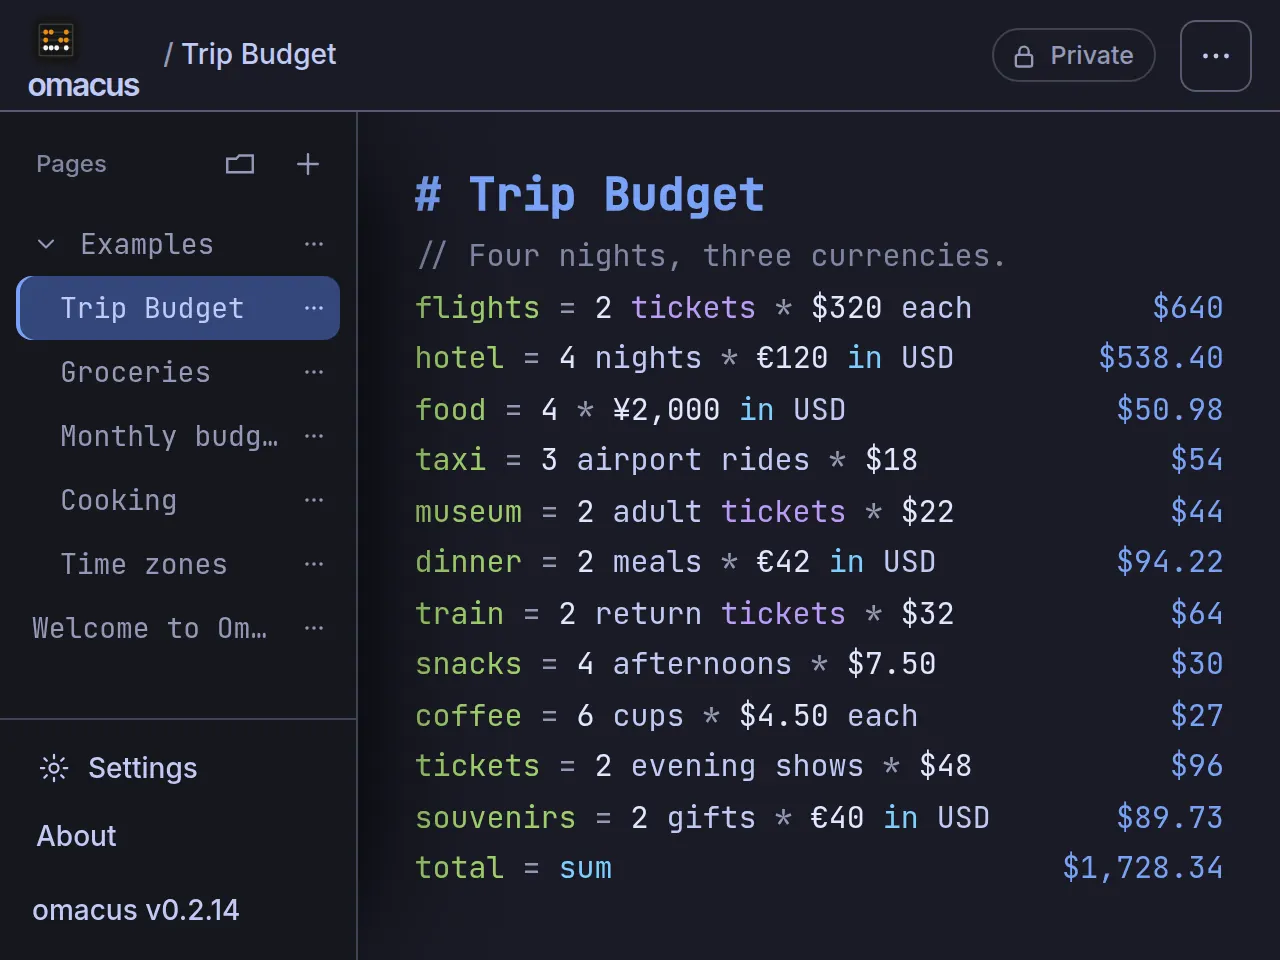
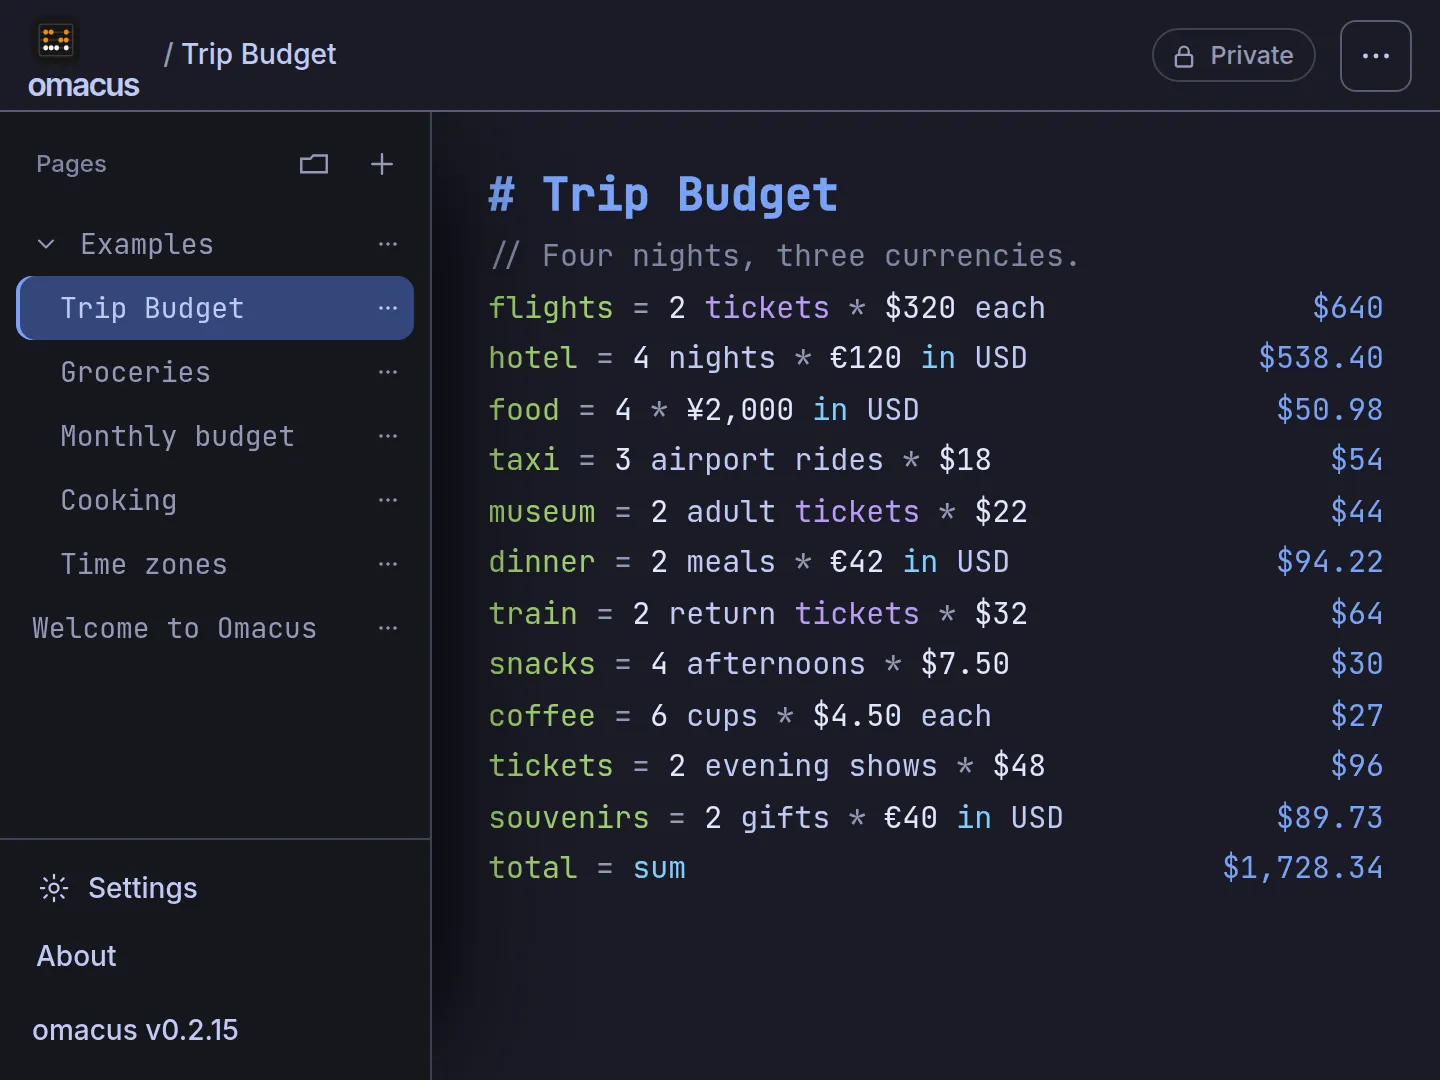
Make the unfolded-phone crease a hairline.
A shadow on each half was falling across the note, and the inner bezels stacked into a bar. The phone now has one shadow, and the halves meet on a 1px line at 8% opacity. The screenshot is the current app, with the page list wide enough that the example names fit.

diff --git a/site/css/site.css b/site/css/site.css
@@ -1320,6 +1320,8 @@ section {
   width: 700px;
   max-width: 100%;
   margin-inline: auto;
+  /* One shadow for the whole phone. A shadow on each half paints across the crease. */
+  filter: drop-shadow(0 var(--space-4) var(--space-5) color-mix(in srgb, var(--black) 42%, transparent));
 }
 
 .foldable-ground {
@@ -1352,8 +1354,7 @@ section {
     var(--metal-deep) 100%);
   box-shadow:
     inset 0 1px 0 color-mix(in srgb, var(--white) 82%, transparent),
-    inset 0 -1px 0 var(--metal-edge),
-    0 var(--space-4) var(--space-5) color-mix(in srgb, var(--black) 42%, transparent);
+    inset 0 -1px 0 var(--metal-edge);
 }
 
 .foldable-half-left::before {
@@ -1380,7 +1381,6 @@ section {
   overflow: hidden;
   background: var(--app-bg);
   border: 1px solid var(--black);
-  box-shadow: inset 0 0 0 1px var(--black);
 }
 
 .foldable-status {
@@ -1397,11 +1397,21 @@ section {
 }
 
 .foldable-half-left .foldable-screen {
+  border-right: 0;
   border-radius: calc(var(--radius-lg) + var(--space-5)) 0 0 calc(var(--radius-lg) + var(--space-5));
+  box-shadow:
+    inset 1px 0 0 var(--black),
+    inset 0 1px 0 var(--black),
+    inset 0 -1px 0 var(--black);
 }
 
 .foldable-half-right .foldable-screen {
+  border-left: 0;
   border-radius: 0 calc(var(--radius-lg) + var(--space-5)) calc(var(--radius-lg) + var(--space-5)) 0;
+  box-shadow:
+    inset -1px 0 0 var(--black),
+    inset 0 1px 0 var(--black),
+    inset 0 -1px 0 var(--black);
 }
 
 .foldable-screen img {
@@ -1426,8 +1436,8 @@ section {
   z-index: 3;
   width: 1px;
   transform: translateX(-50%);
-  background: color-mix(in srgb, var(--black) 32%, transparent);
-  box-shadow: 1px 0 0 color-mix(in srgb, var(--white) 16%, transparent);
+  background: color-mix(in srgb, var(--white) 8%, transparent);
+  box-shadow: 1px 0 0 color-mix(in srgb, var(--black) 8%, transparent);
   pointer-events: none;
 }
 

diff --git a/site/index.html b/site/index.html
@@ -418,7 +418,7 @@
                 <div class="foldable-status" aria-hidden="true"></div>
                 <picture>
                   <source srcset="/img/screens/unfold-light.webp" media="(prefers-color-scheme: light)" type="image/webp">
-                  <img src="/img/screens/unfold-dark.webp" width="1280" height="960" alt="Omacus on an unfolded phone, Trip Budget open: a slim list of pages, and the note running across the screen." loading="lazy" decoding="async">
+                  <img src="/img/screens/unfold-dark.webp" width="1440" height="1080" alt="Omacus on an unfolded phone, Trip Budget open: a slim list of pages, and the note running across the screen." loading="lazy" decoding="async">
                 </picture>
               </div>
             </div>
@@ -430,7 +430,7 @@
                 </div>
                 <picture>
                   <source srcset="/img/screens/unfold-light.webp" media="(prefers-color-scheme: light)" type="image/webp">
-                  <img src="/img/screens/unfold-dark.webp" width="1280" height="960" alt="" loading="lazy" decoding="async">
+                  <img src="/img/screens/unfold-dark.webp" width="1440" height="1080" alt="" loading="lazy" decoding="async">
                 </picture>
               </div>
               <span class="foldable-buttons" aria-hidden="true"><span></span><span></span></span>

diff --git a/docs/DESIGN.md b/docs/DESIGN.md
@@ -327,7 +327,7 @@ Don't: collect an email, or describe sync as something the app already does. The
 
 ### Foldable showcase
 
-The homepage section after "Nothing to install" shows Omacus on a generic unfolded phone. On a wide screen the copy sits to the left and the phone to the right; the phone is about 700px wide, so the headline and the device fit in one view. Narrower screens stack them and keep the phone inside the column. Unfolded, the device lies flat, landscape, about 4:3. The rim is polished stainless (`--metal-hi` through `--metal-edge` in `tokens.css`), thick enough to show the metal gradient, with a thin black bezel, large corner radii, two small buttons on the right edge, and a soft shadow. A status strip sits above the app on both halves: the punch-hole camera and the time live in that strip on the right, clear of the app's own bar. The halves meet at a hairline crease. Inside, the page list is the slim sidebar and Trip Budget fills the rest, so the note continues across the crease. The picture is the app rendered near 640px wide, so the type stays proportional inside the device. A line does not wrap. The light screenshot replaces the dark one when the system is light. The marketing page itself stays near-black.
+The homepage section after "Nothing to install" shows Omacus on a generic unfolded phone. On a wide screen the copy sits to the left and the phone to the right; the phone is about 700px wide, so the headline and the device fit in one view. Narrower screens stack them and keep the phone inside the column. Unfolded, the device lies flat, landscape, about 4:3. The rim is polished stainless (`--metal-hi` through `--metal-edge` in `tokens.css`), thick enough to show the metal gradient, with a thin black bezel, large corner radii, two small buttons on the right edge, and a soft shadow. A status strip sits above the app on both halves: the punch-hole camera and the time live in that strip on the right, clear of the app's own bar. The halves meet at a barely-there crease: one pixel of highlight and one pixel of shadow, each at 8% opacity, the same in light and dark. The black bezel stops at the outer edges, so the crease is not a bar through the note. The soft shadow belongs to the whole phone; each half does not cast one, or it would fall across the page. Inside, the page list is the slim sidebar and Trip Budget fills the rest, so the note continues across the crease. The picture is the app rendered near 720px wide, with the page list about 30% of that width, so the type stays proportional and the page names fit. A line does not wrap. The light screenshot replaces the dark one when the system is light. The marketing page itself stays near-black.
 
 Do: use the metal tokens for the rim and the buttons, and the marketing tokens for the crease, the time, and the copy. The paragraph under the heading uses `--prose-gap`. Pictures have width, height, lazy loading, and alt text that names the page and the two panes. Corners and padding stay on the radius and 4px scales.
 
